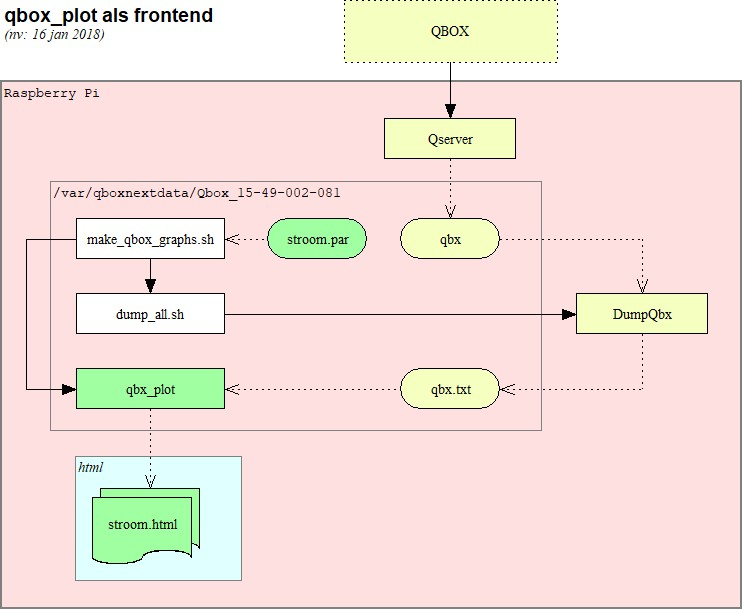
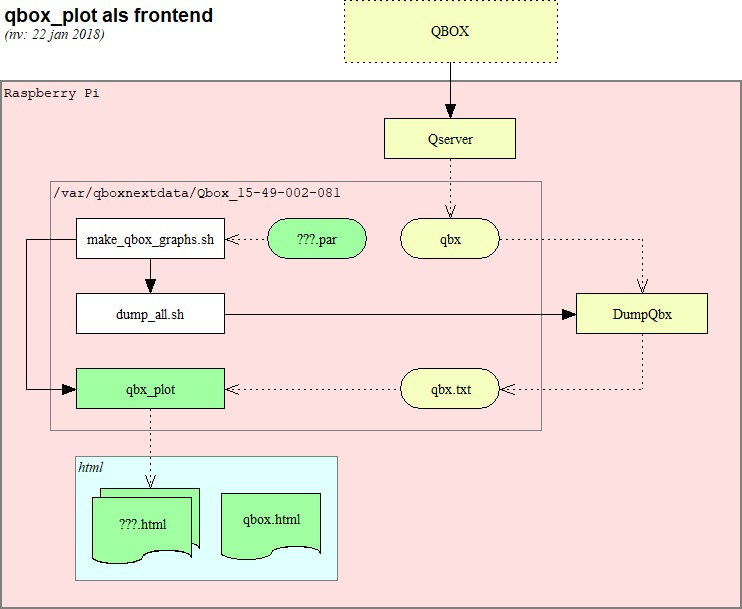
tutorial for using qbox_plot as a basic live energy monitor

diff --git a/README.md b/README.md
@@ -106,6 +106,8 @@ And make a symbolic link to the DumpQbx application:
   ``ln -s /home/pi/DumpQbx/QboxNext.DumpQbx dumpqbx``
   
 Create the 'dump_all.sh' script that will execute the conversion. It should have the following contents (but with your own serialnumber)
+
+> dump_all.sh
 ```  
   cd /var/qboxnextdata/Qbox_15-49-002-081
   ./dumpqbx --qbx=/var/qboxnextdata/Qbox_15-49-002-081/15-49-002-081_00000181.qbx --values > 181.txt
@@ -132,7 +134,7 @@ It is advisable to use virtualenv to create a clean python environment that does
  
  ``pip install http://uilennest.net/repository/qbox_plot-1.0.0.tar.gz --upgrade``
 
-Test if the qbox_plot installation has worked by typing: ``qbox_plot --version``. 
+Test if the qbox_plot installation has worked by typing: ``qbox_plot --version``. You should see output like this:
 
 --- qbx_plot.py - version 1.0.0 - 16 jan 2019 ---
 Copyright (C) 2019 - Nico Vermaas. This program comes with ABSOLUTELY NO WARRANTY;
@@ -155,11 +157,13 @@ done
 ```
 
 Make the script executable:
-  ''chmod +x make_qbox_graphs.sh''
+  ``chmod +x make_qbox_graphs.sh``
   
 # The presentation files
 Create the following parameter files for the 4 different presentations:
-  First create the output directory: ``cd html``
+  First create the output directory: 
+  
+  ``cd html``
 
   Create the following files:
   
@@ -250,14 +254,21 @@ Create the main html file that contains the presentation:
 </html>
 ```
 
+Your data directory should now look like this (the number of txt and qbx files may differ)
+<p align="center">
+  <img src="https://github.com/nvermaas/qbox_plot/blob/master/images/pi_qbox_dir.png.png"/>
+</p>
+
+
 ## automation
 Running the script ``make_qbox_graphs.sh`` should now produce all the graphs as webpages.
 To automate that process and keep it running in the background you should start that script with the following command.
 
-  ``nohub ./make_qbox_graphs.sh &``
+  ``nohup ./make_qbox_graphs.sh &``
+    
     
 ## showing it on a webserver
-
+(under construction)
 
 <p align="center">
   <img src="https://github.com/nvermaas/qbox_plot/blob/master/images/qbox_gas_stroom.png"/>
